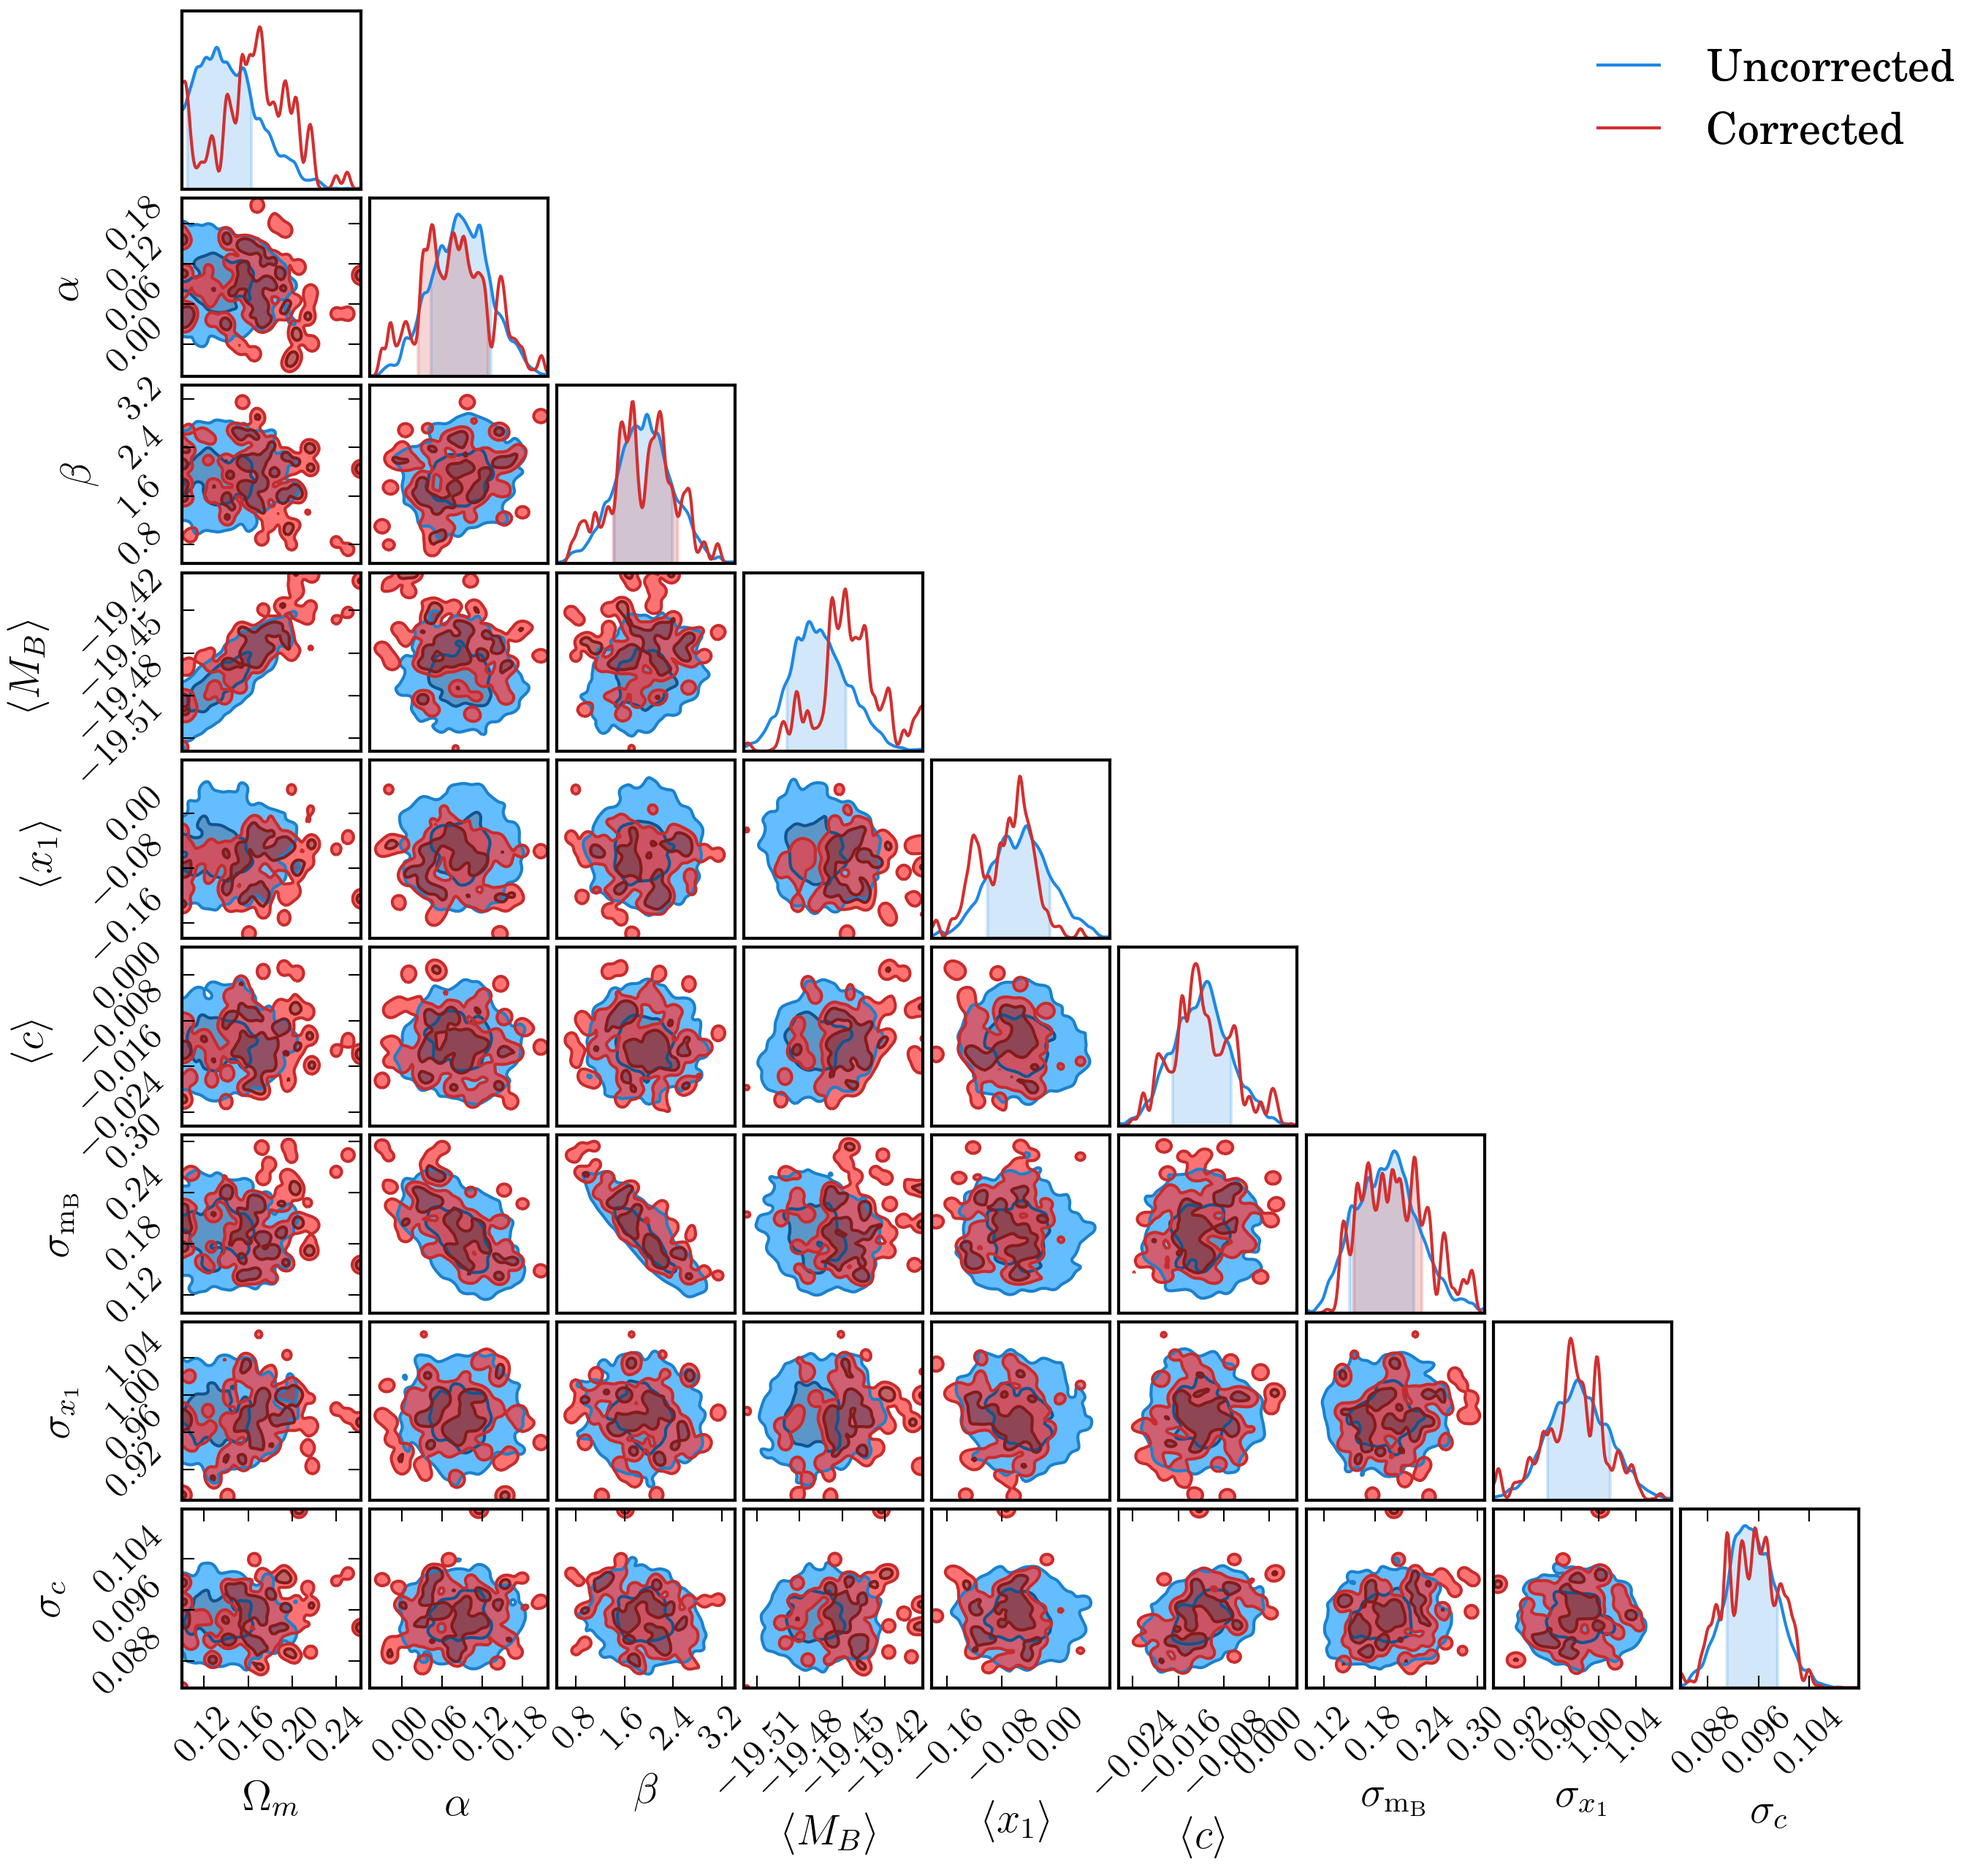
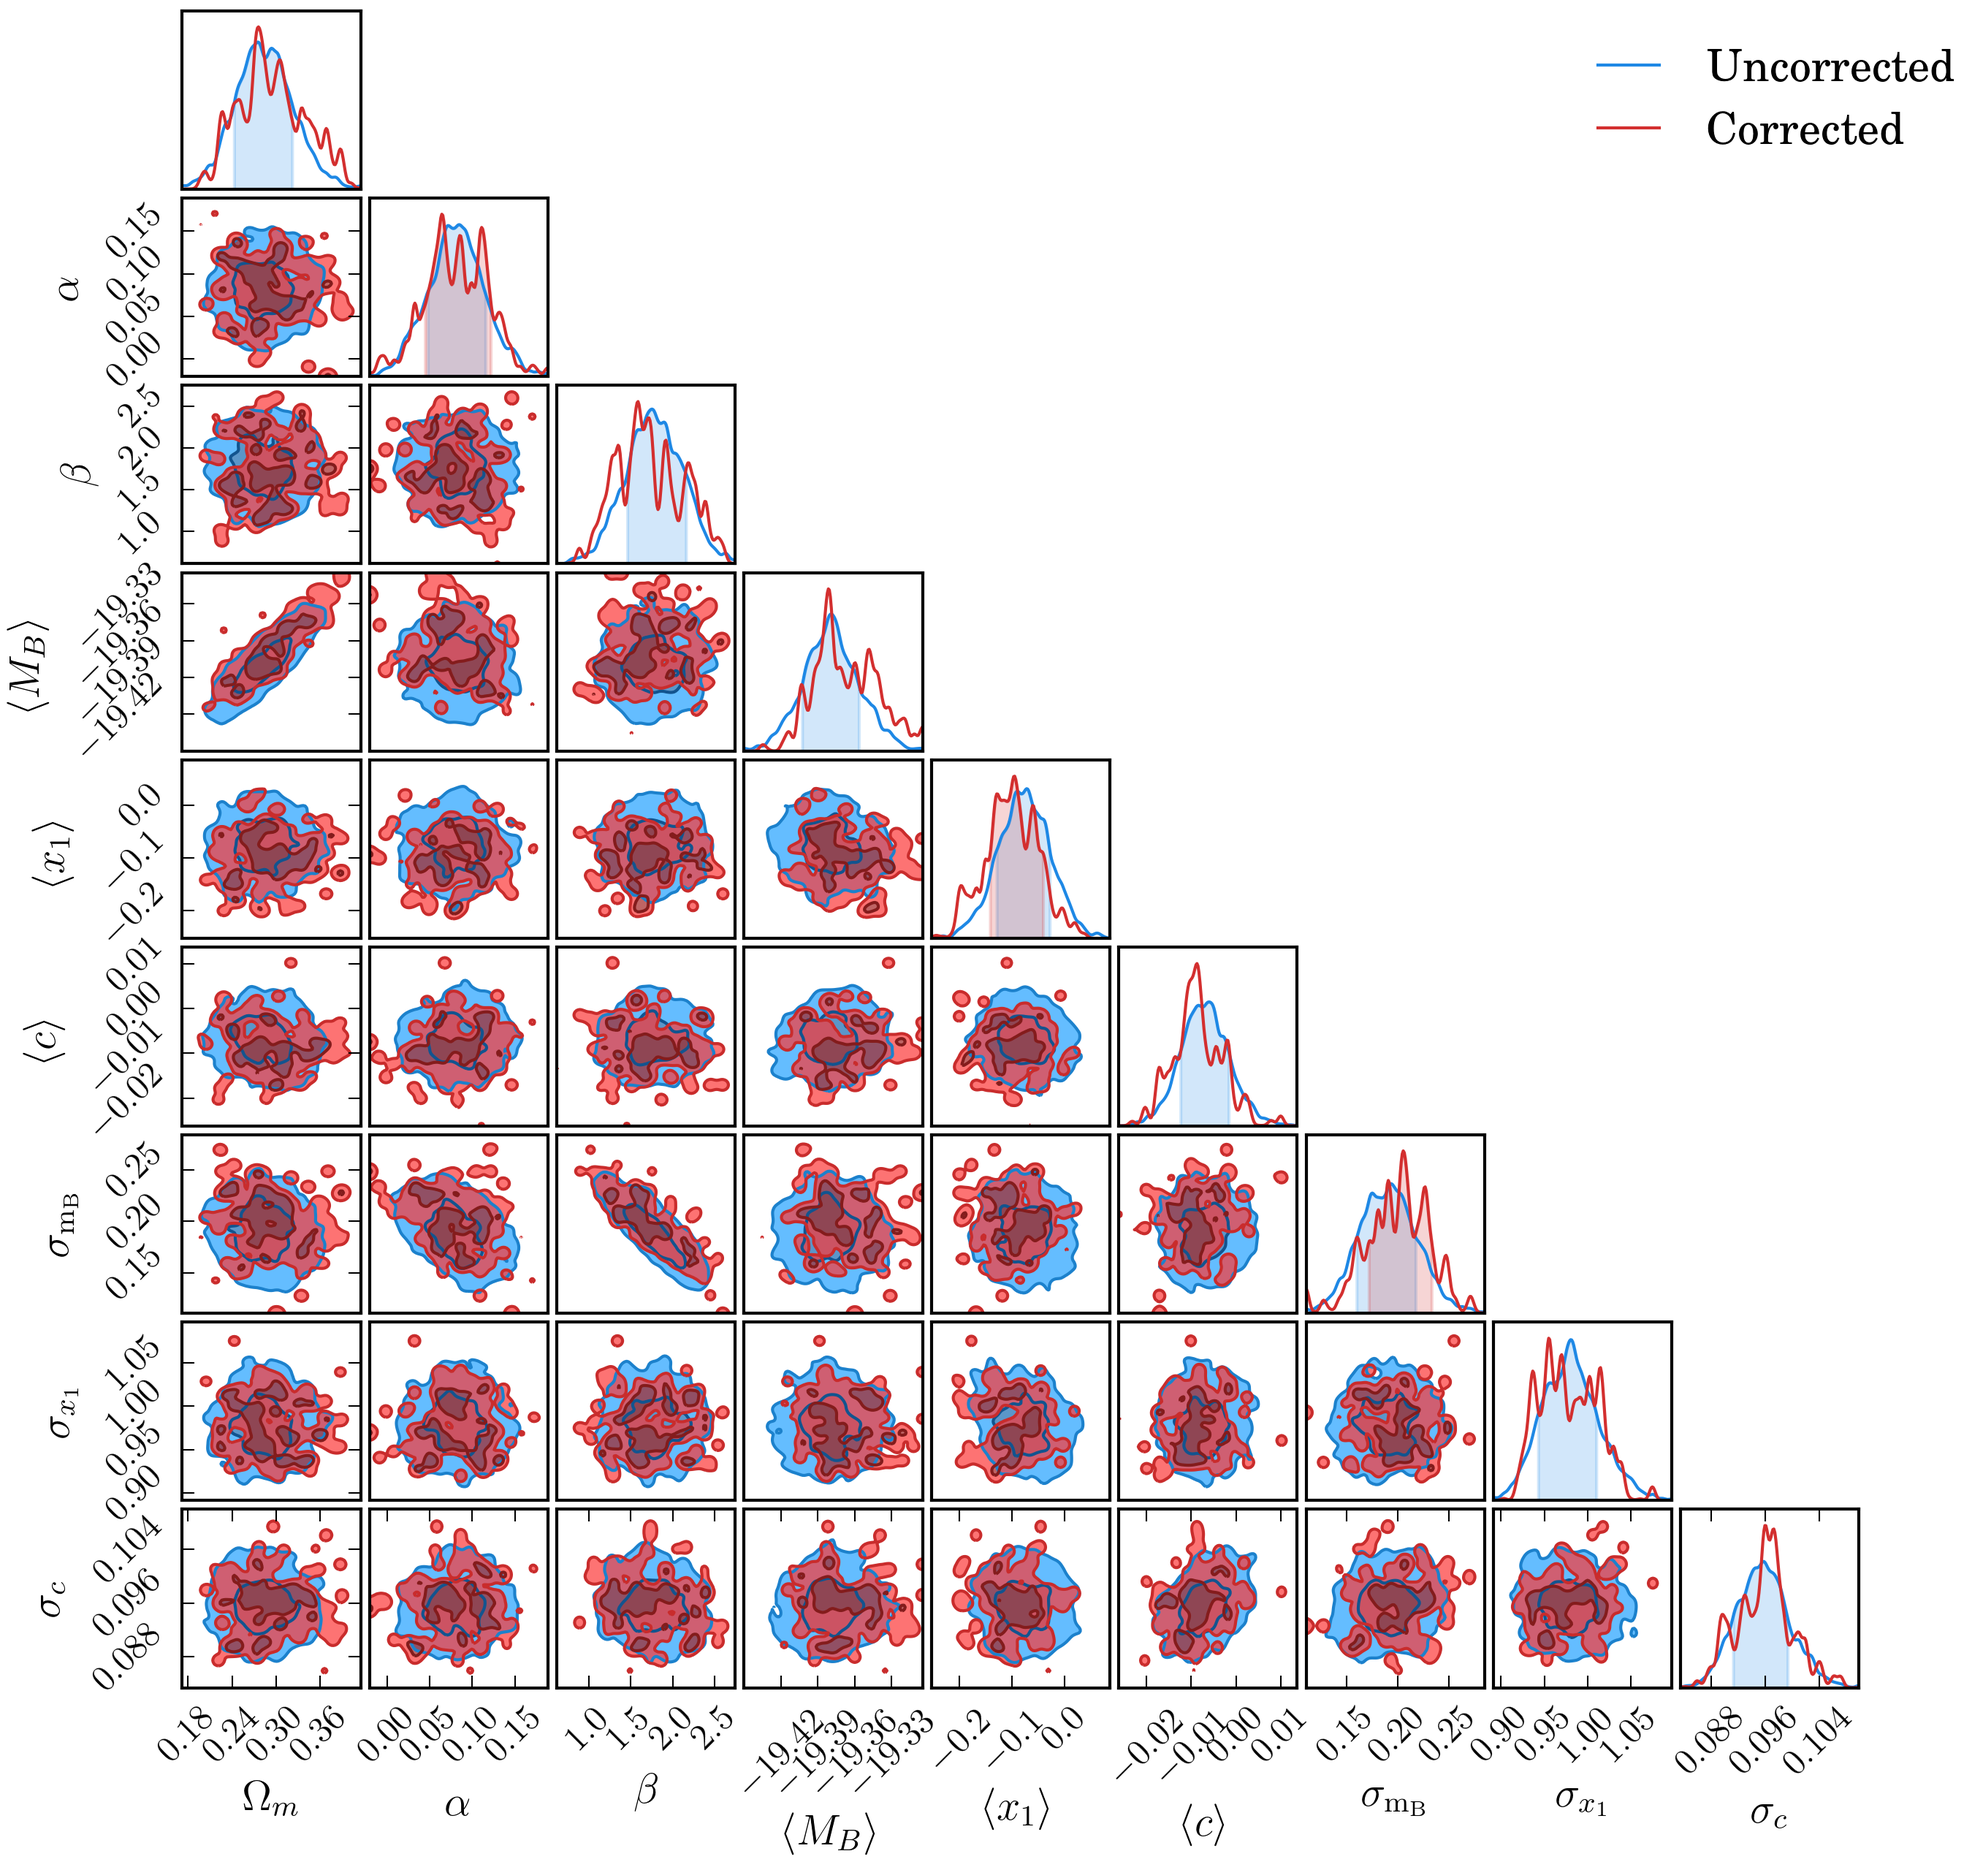
Updating skew normal fit

Changed region(s): [[0.031, 0.0, 0.9285, 0.9879], [0.0, 0.4322, 0.031, 0.4631]]

diff --git a/dessn/models/d_simple_stan/approx_skewnorm/run.py b/dessn/models/d_simple_stan/approx_skewnorm/run.py
@@ -10,9 +10,31 @@ def get_approximate_mb_correction(correction_source):
     d = load_correction_supernova(correction_source=correction_source, only_passed=False)
     mask = d["passed"] == 1
     mB = d["apparents"]
-    data = mB[mask][::10]
+    data = mB[mask]
     print("Fitting data profile")
-    alpha, mean, std = skewnorm.fit(data)
+
+    # Getting the efficiency pdf
+    hist_all, bins = np.histogram(mB, bins=100)
+    hist_passed, _ = np.histogram(data, bins=bins)
+    binc = 0.5 * (bins[:-1] + bins[1:])
+    hist_all[hist_all == 0] = 1
+    ratio = hist_passed / hist_all
+
+    # Inverse transformation sampling to sample from this random pdf
+    cdf = ratio.cumsum()
+    cdf = cdf / cdf.max()
+    n = 100000
+    u = np.random.random(size=n)
+    y = interp1d(cdf, binc)(u)
+
+    alpha, mean, std = skewnorm.fit(y)
+
+    # import matplotlib.pyplot as plt
+    # plt.plot(binc, ratio)
+    # plt.plot(binc, skewnorm.pdf(binc, alpha, mean, std))
+    # plt.hist(y, 100, histtype='step', normed=True)
+    # plt.show()
+    # exit()
 
     return mean, std, alpha
 
